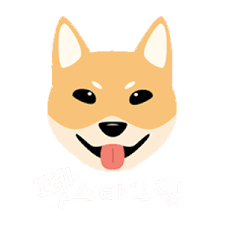
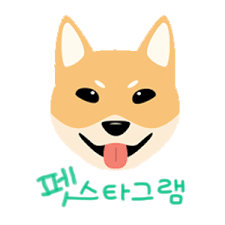
css수정2

diff --git a/lib/mycss.css b/lib/mycss.css
@@ -1,10 +1,14 @@
+@import url('https://fonts.googleapis.com/css2?family=Lobster&display=swap');
+@import url('https://fonts.googleapis.com/css2?family=Shadows+Into+Light&display=swap');
+@import url('https://fonts.googleapis.com/css2?family=Hi+Melody&display=swap');
+
 .mainbox{
     width : 100%;
     height : 650px;
     background-image: url("../pet.png");
     background-repeat: no-repeat;
     background-position-x: 50% ;
-    background-color: #00c183;
+    /* background-color: #00c183; */
     grid-template-rows : 150px  390px  150px;
 }
 
@@ -19,8 +23,17 @@
 
 .navbar-default .navbar-nav>li>a{
     color: white;
+    font-family: 'Hi Melody', cursive;
+    font-size: 20px;
 }
 
 .navbar-default .navbar-brand {
     color: white;
+    font-family: 'Shadows Into Light', cursive;
+    font-size: 25px;
+}
+
+.navbar-default .navbar-nav>.active>a, .navbar-default .navbar-nav>.active>a:focus, .navbar-default .navbar-nav>.active>a:hover{
+    color: white;
+    background-color: #26cc97;
 }

diff --git a/index.php b/index.php
@@ -36,7 +36,7 @@
                         <span class="icon-bar"></span>
                     </button>
                     <a class="navbar-brand" href="#">
-						PETSTAGRAM
+						Petstagram
                     </a>
                 </div>
                 <div class="collapse navbar-collapse" id="nav_menu">
